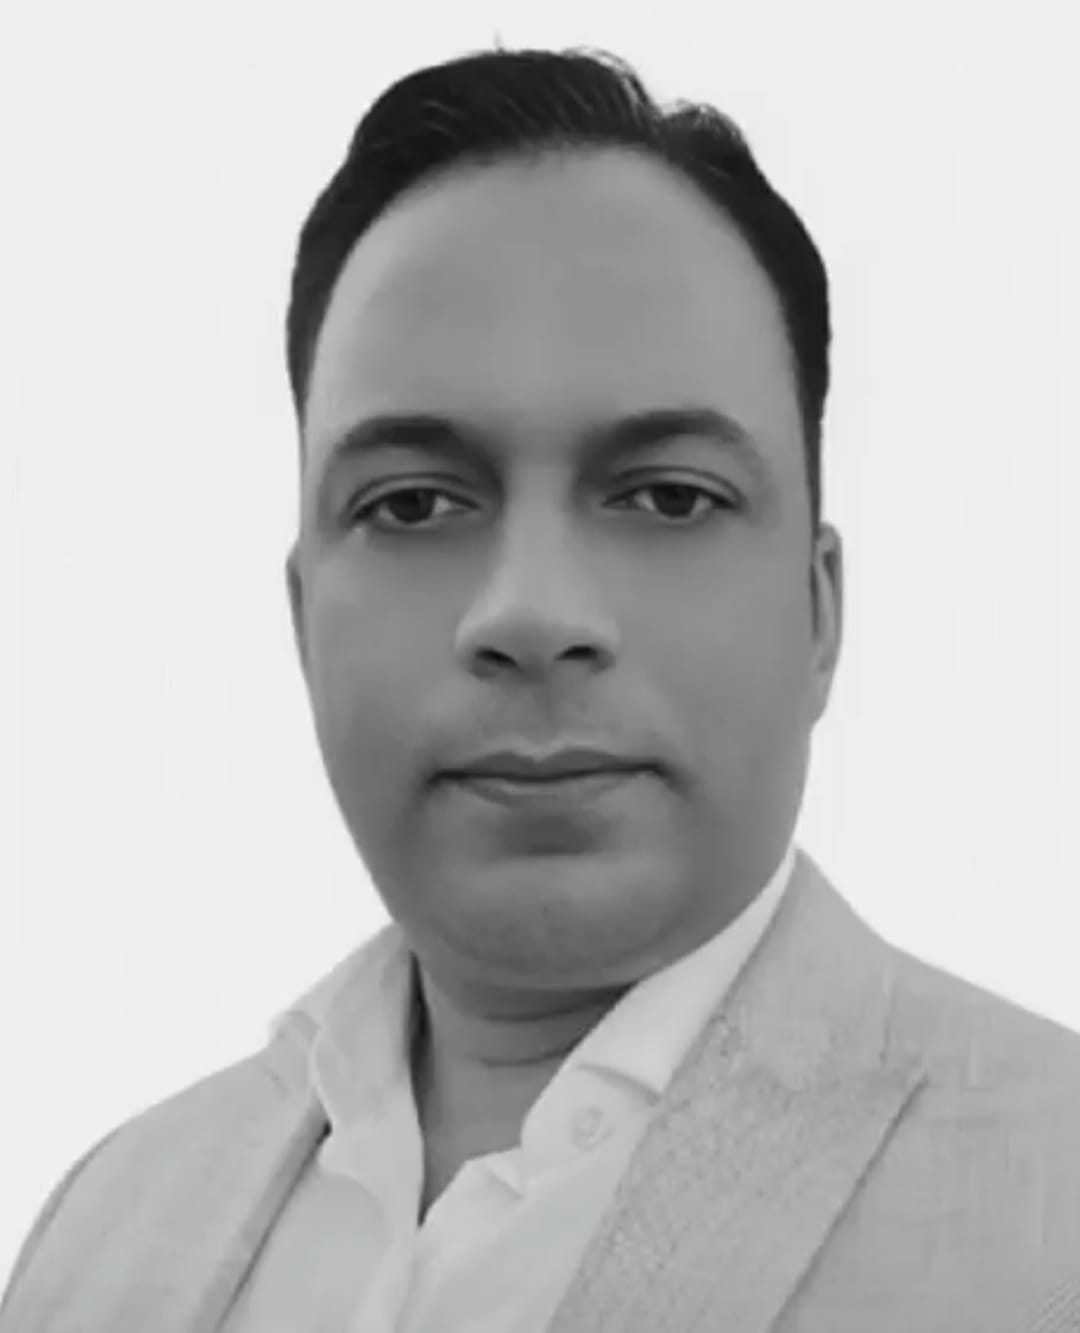
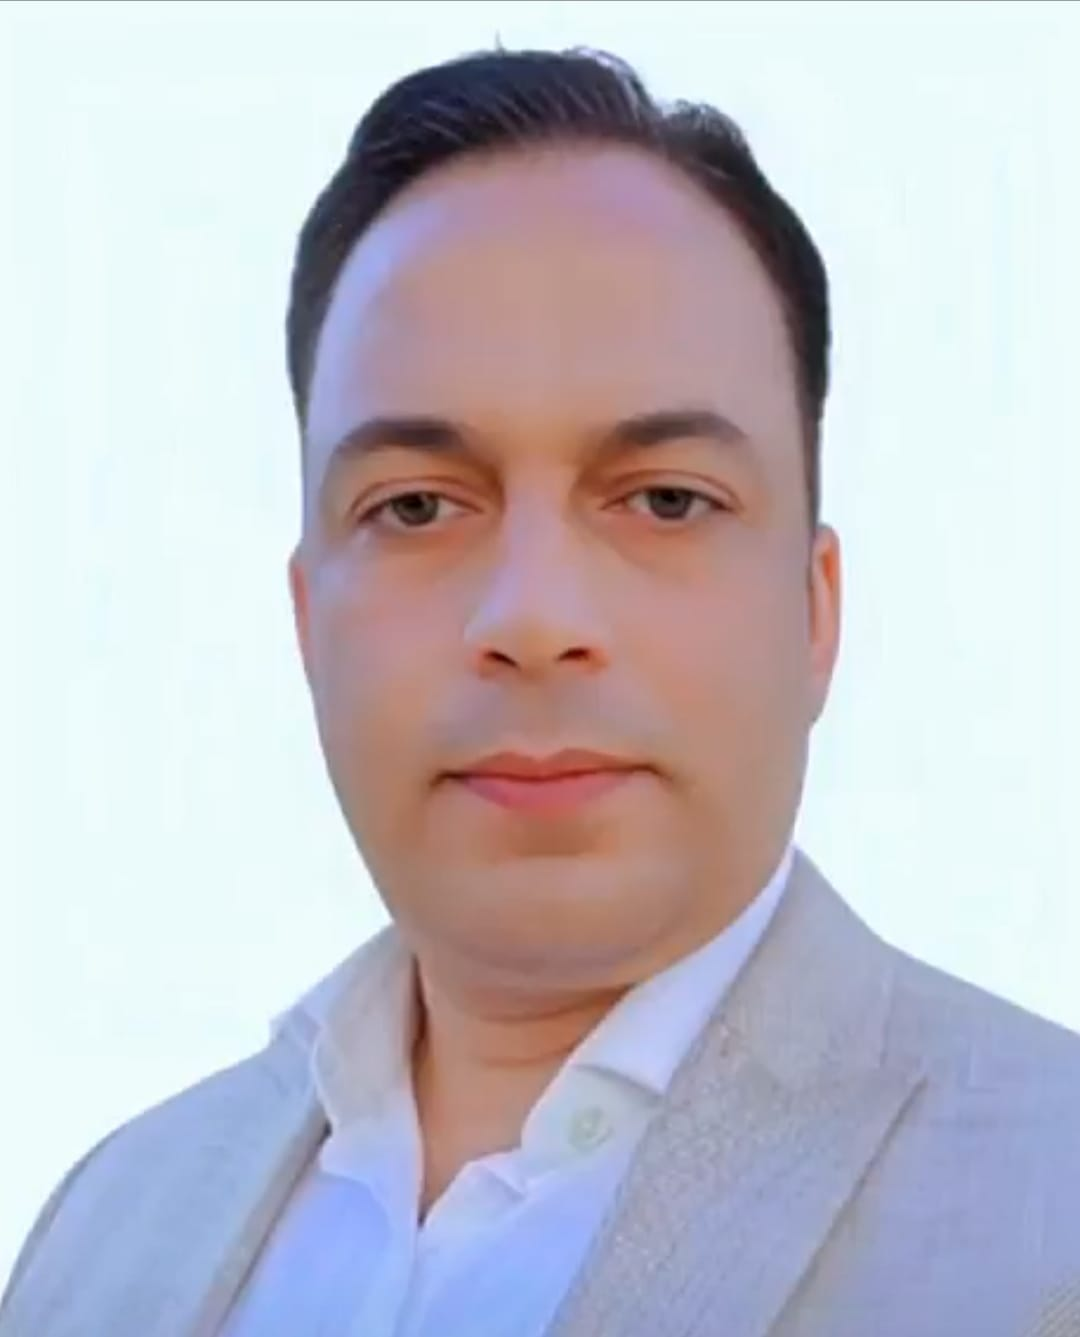
Center Sameer Sir's photo inside About Educator circle by shifting left and up

diff --git a/client/screens/AboutEducatorScreen.tsx b/client/screens/AboutEducatorScreen.tsx
@@ -147,10 +147,10 @@ const styles = StyleSheet.create({
   },
   photo: {
     position: "absolute",
-    width: "100%",
-    height: "108%",
-    top: 3,
-    left: 0,
+    width: "115%",
+    height: "115%",
+    top: -5,
+    left: -8,
   },
   logoCenter: {
     alignItems: "center",